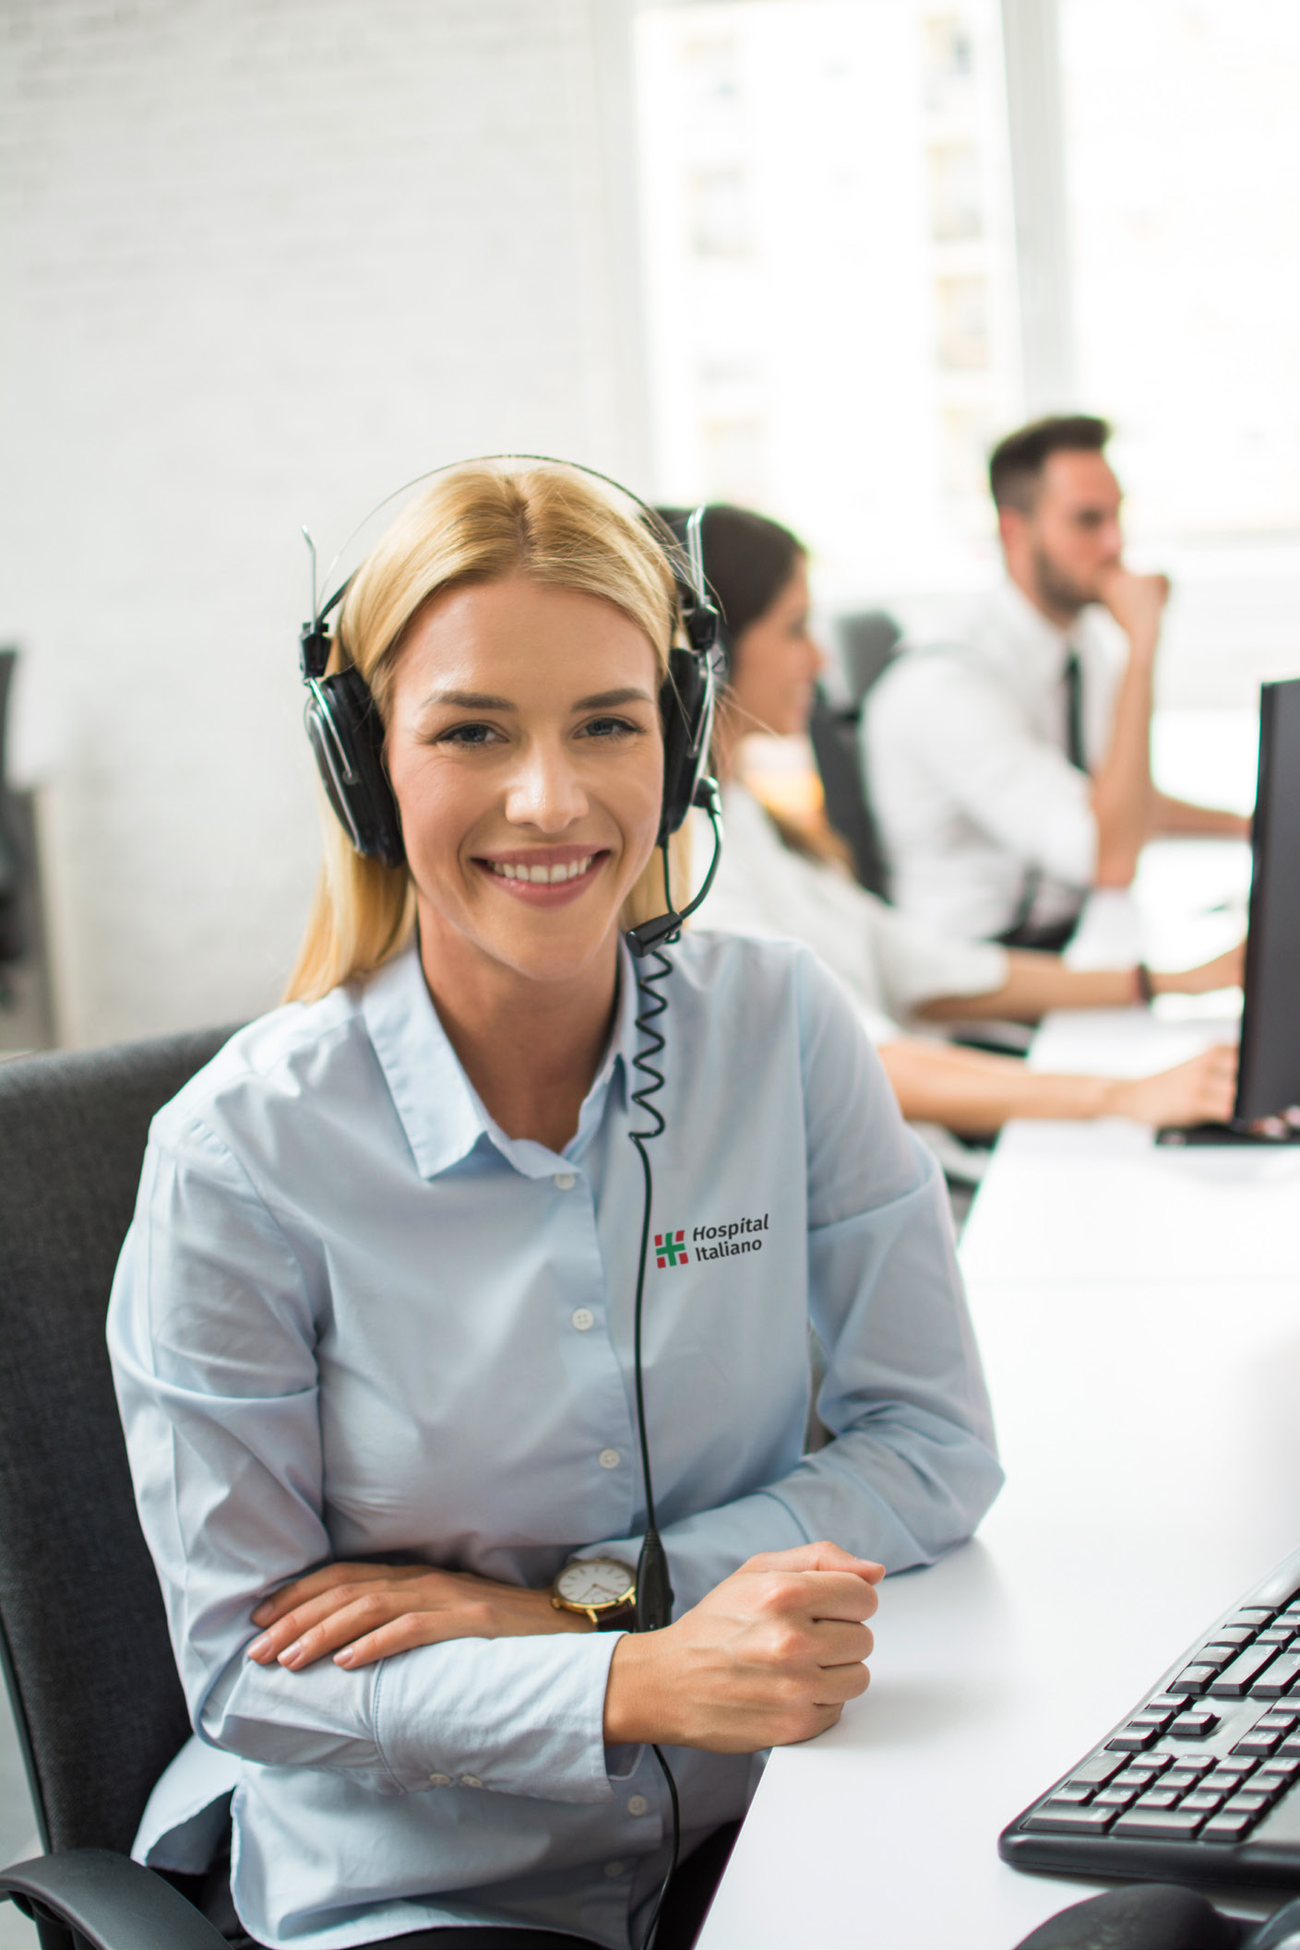
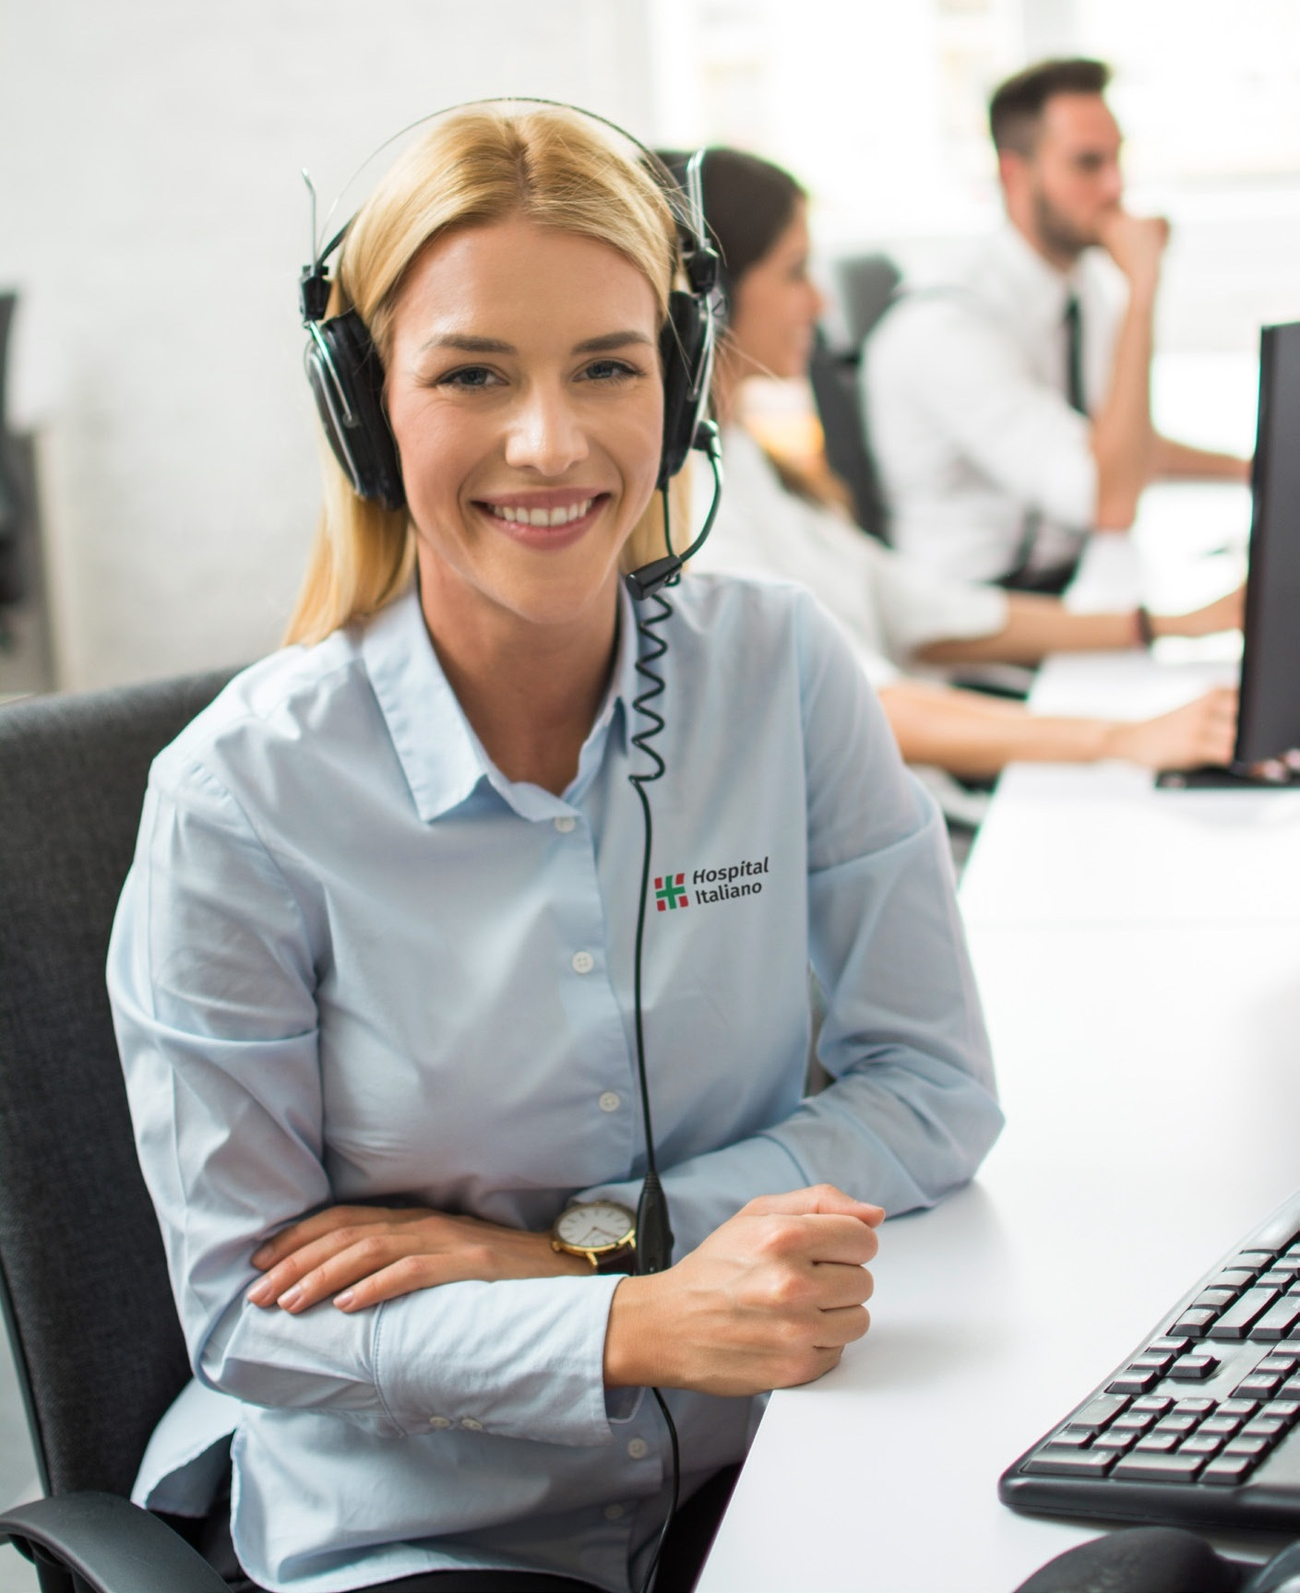
design test added

diff --git a/design-test.html b/design-test.html
@@ -1,0 +1,381 @@
+<!DOCTYPE html>
+<html lang="es">
+<head>
+  <meta charset="UTF-8" />
+  <meta name="viewport" content="width=device-width, initial-scale=1.0" />
+  <link rel="preconnect" href="https://fonts.googleapis.com">
+  <link rel="preconnect" href="https://fonts.gstatic.com" crossorigin>
+  <link href="https://fonts.googleapis.com/css2?family=Fira+Sans:ital,wght@0,100;0,200;0,300;0,400;0,500;0,600;0,700;0,800;0,900;1,100;1,200;1,300;1,400;1,500;1,600;1,700;1,800;1,900&display=swap" rel="stylesheet">
+  <title>Plan de Salud - Hospital Italiano</title>
+
+  <!-- Estilos globales y media queries -->
+  <style>
+    /* Estilos globales */
+    * {
+      margin: 0;
+      padding: 0;
+      box-sizing: border-box;
+      font-family: "Fira Sans", sans-serif;
+      font-size: 12px;
+      color: #000000dc;
+    }
+  </style>
+</head>
+
+<body style="background-color:#ffffff; max-width: 600px; display: flex; flex-direction: column; justify-content: center;line-height:1.25; margin:0 auto; padding:0;">
+
+  <!-- INICIO HEADER -->
+  <header role="banner" style="width:100%; display:block;">
+
+    <!-- Main banner -->
+    <div class="main-banner" style="width:100%; display:flex; justify-content:space-between; align-items:center; padding:25px 7.5%; box-sizing:border-box;">
+      <div class="banner-title" style="width:55%;">
+        <h3 style="color:#00913D; font-size:20px; font-weight:400;">Información Importante</h3>
+      </div>
+      <div class="banner-icon" style="width:45%; display:flex; justify-content:flex-end;">
+        <img src="./img/logo-plan-salud.png" alt="Hospital Italiano" style="width:180px; height:auto; display:block;">
+      </div>
+    </div>
+
+    <!-- Banner con título -->
+    <div class="title-banner" style="background-image:url('./img/bg-hospital-italiano-wide.png'); background-size:cover; background-position:center; width:100%; min-height:215px; border-bottom-right-radius:40px; padding:7.5%; position:relative; box-sizing:border-box;">
+      <div class="overlay" style="background-color:rgba(0,0,0,0.2); position:absolute; top:0; left:0; right:0; bottom:0; border-bottom-right-radius:40px;"></div>
+      <div class="title-group" style="position:relative; z-index:2;">
+        <h1 style="color:#ffffff; font-size:3rem; max-width:60%; line-height:3rem; font-weight:500; position:absolute; left:0; top:20%; text-shadow:2px 2px 8px rgba(0,0,0,0.6);">Bienvenidos al Hospital Italiano</h1>
+      </div>
+    </div>
+
+  </header>
+  <!-- FIN HEADER -->
+
+    <!-- INICIO MAIN -->
+  <main role="main" style="display:block; width:100%; box-sizing:border-box; padding:25px 0 0 0;">
+
+    <!-- Fecha actual -->
+    <div style="width:100%; display:flex; justify-content:flex-end; padding:0 7.5%; box-sizing:border-box;">
+      <p id="dateLine" style="font-weight:400; font-size:12px; color:#000000dc; margin:0;">
+        Buenos Aires, <span id="dateDay">#dd#</span> de <span id="dateMonth">#mmm#</span> de <span id="dateYear">#yyyy#</span>
+      </p>
+    </div>
+
+    <!-- main-info-section -->
+    <section class="main-info-section" style="padding:1rem 7.5%; box-sizing:border-box;">
+      <div style="margin-bottom:20px;">
+        <p style="margin-bottom:2px; font-weight:400;">
+          <strong style="font-weight:600;">Hola <span id="clientName">#nombre#</span></strong> | AFILIADO/A Nº <span id="clientNumber">#número afiliado#</span>
+        </p>
+        <p style="margin-bottom:2px; font-weight:400;">
+          <strong style="font-weight:600;">Plan:</strong> <span id="planNumber">XXX</span>
+        </p>
+        <p style="margin-bottom:2px; font-weight:400;">
+          <strong style="font-weight:600;">Forma de Pago:</strong> <span id="paymentMethod">Tarjeta - XXXX</span>
+        </p>
+      </div>
+
+      <div style="margin-top:6px;">
+        <p style="margin-bottom:8px; font-weight:400;">
+          Queremos darte la bienvenida a nuestra institución como afiliado/a del
+          <strong style="font-weight:600; color:#00913D;">Plan de Salud del Hospital Italiano.</strong>
+        </p>
+        <p style="margin-bottom:8px; font-weight:400;">
+          Tu cobertura tiene vigencia a partir del día
+          <strong style="font-weight:600;"><span id="startDate">#fecha_inicio_cobertura#</span></strong>
+        </p>
+        <p style="margin-bottom:8px; font-weight:600;">
+          A continuación, te acercamos información que consideramos puede ser de gran utilidad:
+        </p>
+        <p style="margin-bottom:8px; font-weight:400;">
+          Para tu facilidad, te enviamos adjunta tu credencial en este e-mail. De todas maneras, podés acceder desde tu celular descargando la App del Portal de Pacientes y accediendo en la parte inferior a
+          <strong style="font-weight:600;">“Credencial”</strong>.
+        </p>
+      </div>
+    </section>
+
+  </main>
+  <!-- FIN MAIN -->
+
+    <!-- INICIO SECCIÓN NÚMEROS ÚTILES -->
+  <section aria-labelledby="numeros-utiles" style="display:block; width:100%; box-sizing:border-box;">
+
+    <!-- Título -->
+    <div style="background-color:#00913D; padding:0.5rem 7.5%; box-sizing:border-box;">
+      <h3 id="numeros-utiles" style="margin:0; color:#ffffff; font-size:18px;">Números útiles</h3>
+    </div>
+
+    <!-- Contenido -->
+    <div style="display:flex; justify-content:space-between; align-items:center;">
+
+      <!-- Columna izquierda -->
+      <div style="width:65%; padding:25px 5% 25px 7.5%; box-sizing:border-box;">
+        <p style="margin:0 0 18px 0; font-size:1.6rem; color:#EE4746; font-weight:400;">
+          Servicio de Emergencias: 4959-5000
+        </p>
+
+        <!-- Listado de números -->
+        <div style="display:flex; gap:2rem;">
+
+          <!-- Columna 1 -->
+          <div style="display:flex; flex-direction: column; min-width:45%;">
+            <!-- Central de turnos -->
+            <div style="display:flex; align-items:flex-start; margin-bottom:12px;">
+              <img src="./img/icon-arrows.png" alt="" style="width:10px; height:auto; margin-right:2.5px; margin-top:2px;">
+              <div>
+                <p style="margin:0;">
+                  <strong style="font-weight:600;">Central de turnos:</strong><br>
+                  <span style="display:block; color:#00913D; font-size:1.5rem;">4959-0550</span>
+                  <span style="display:block; font-style:italic;">Lunes a viernes de 7:30 a 21 hs. Sábados de 8 a 14 hs.</span>
+                </p>
+              </div>
+            </div>
+
+            <!-- Farmacias -->
+            <div style="display:flex; align-items:flex-start; margin-bottom:12px;">
+              <img src="./img/icon-arrows.png" alt="" style="width:10px; height:auto; margin-right:2.5px; margin-top:2px;">
+              <div>
+                <p style="margin:0;">
+                  <strong style="font-weight:600;">Farmacias Plan de Salud,</strong>
+                  <span style="font-weight:400;"> envíos a domicilio:</span><br>
+                  <span style="display:block; color:#00913D; font-size:1.5rem;">4959-0474</span>
+                </p>
+              </div>
+            </div>
+          </div>
+
+          <!-- Columna 2 -->
+          <div style="display:flex; flex-direction: column; justify-content: space-between; min-width:45%;">
+            <!-- Atención al afiliado -->
+            <div style="display:flex; align-items:flex-start; margin-bottom:12px;">
+              <img src="./img/icon-arrows.png" alt="" style="width:10px; height:auto; margin-right:2.5px; margin-top:2px;">
+              <div>
+                <p style="margin:0;">
+                  <strong style="font-weight:600;">Centro de atención al afiliado:</strong><br>
+                  <span style="display:block; color:#00913D; font-size:1.5rem;">4959-0555</span>
+                </p>
+              </div>
+            </div>
+
+            <!-- Asistencia al viajero -->
+            <div style="display:flex; align-items:flex-start; margin-bottom:12px;">
+              <img src="./img/icon-arrows.png" alt="" style="width:10px; height:auto; margin-right:2.5px; margin-top:2px;">
+              <div>
+                <p style="margin:0;">
+                  <strong style="font-weight:600;">Asistencia al viajero:</strong><br>
+                  <span style="display:block; color:#00913D; font-size:1.5rem;">0800-999-6400</span>
+                  <span style="display:block; color:#00913D; font-size:1.5rem;">4323-7777</span>
+                </p>
+              </div>
+            </div>
+          </div>
+
+        </div>
+      </div>
+
+      <!-- Columna derecha (imagen) -->
+      <div style="width:35%; box-sizing:border-box; display:flex; justify-content:center; align-items:center;">
+        <img src="./img/worker-woman-portrait.jpg" alt="Médica sonriendo" style="max-width:100%; height:auto; display:block;">
+      </div>
+
+    </div>
+  </section>
+  <!-- FIN SECCIÓN NÚMEROS ÚTILES -->
+
+    <!-- INICIO PORTAL DE PACIENTES -->
+  <section aria-labelledby="portal-pacientes" style="display:block; width:100%; box-sizing:border-box">
+
+    <!-- Título -->
+    <div style="background-color:#00913D; padding:0.5rem 7.5%; box-sizing:border-box;">
+      <h3 id="portal-pacientes" style="margin:0; color:#ffffff; font-size:18px;">Portal de Pacientes</h3>
+    </div>
+
+    <!-- Contenedor principal -->
+    <div style="display:flex; justify-content:space-between; padding:25px 7.5%; border-bottom:1px solid #00913D; box-sizing:border-box;">
+
+      <!-- Columna izquierda -->
+      <div style="flex:1 1 75%;">
+        <h4 style="margin:0 0 12px 0; font-size:14px; font-weight:600; max-width: 82%;">
+          Te recordamos las múltiples funcionalidades de tu <span style="color:#00913D; font-weight:600; font-size: 14px;">Portal de Pacientes.</span>
+        </h4>
+
+        <ul style="list-style:none; padding:0; margin-top:12px;">
+          <li style="display:flex; align-items:center; margin-bottom:2px;">
+            <img src="./img/icon-arrows.png" alt="" style="width:10px; height:auto; margin-right:2.5px;">
+            <span>Reservar turnos</span>
+          </li>
+          <li style="display:flex; align-items:center; margin-bottom:2px;">
+            <img src="./img/icon-arrows.png" alt="" style="width:10px; height:auto; margin-right:2.5px;">
+            <span>Visualizar tus estudios</span>
+          </li>
+          <li style="display:flex; align-items:center; margin-bottom:2px;">
+            <img src="./img/icon-arrows.png" alt="" style="width:10px; height:auto; margin-right:2.5px;">
+            <span>Comprar medicamentos</span>
+          </li>
+          <li style="display:flex; align-items:center; margin-bottom:2px;">
+            <img src="./img/icon-arrows.png" alt="" style="width:10px; height:auto; margin-right:2.5px;">
+            <span>Visualizar y abonar tus facturas</span>
+          </li>
+          <li style="display:flex; align-items:center; margin-bottom:2px;">
+            <img src="./img/icon-arrows.png" alt="" style="width:10px; height:auto; margin-right:2.5px;">
+            <span>Acceder a Teleconsultas</span>
+          </li>
+          <li style="display:flex; align-items:center; margin-bottom:2px;">
+            <img src="./img/icon-arrows.png" alt="" style="width:10px; height:auto; margin-right:2.5px;">
+            <span>Consultar dudas por Chat</span>
+          </li>
+        </ul>
+      </div>
+
+      <!-- Columna derecha -->
+      <div style="flex:1 1 140px; display:flex; flex-direction:column; align-items:flex-start; justify-content:flex-end;">
+        <a href="#" style="text-decoration:none;">
+          <button style="display:inline-block; font-size: 13px; background-color: white;padding:4px 16px; border:1px solid #00913D; border-radius:5px; color:#00913D; font-weight:500; box-shadow:2px 2px 5px rgba(199,197,197,0.8);">
+            Acceder
+          </button>
+        </a>
+        <p style="margin-top:12px; color:#00913D; font-size:10px; max-width:120px; font-weight:400; text-shadow:2px 2px 8px rgba(0,0,0,0.08);">
+          Disponible para descarga en <strong style="color:#00913D; font-size:10px;">Play Store</strong> y <strong style="color:#00913D; font-size:10px;">App Store</strong>.<br>
+          Accedé fácilmente desde tu dispositivo móvil.
+        </p>
+      </div>
+
+    </div>
+  </section>
+  <!-- FIN PORTAL DE PACIENTES -->
+
+    <!-- INICIO BLOQUES PORTAL DE PACIENTES -->
+
+  <!-- INICIO: Realizar Gestiones Administrativas -->
+  <section style="display:flex; min-height: 85px; justify-content:space-between; align-items:center; padding:10px 7.5%; border-bottom:1px solid #00913D; box-sizing:border-box;">
+    <div style="display:flex; align-items:center; flex:1 1 75%;">
+      <img src="./img/icon-worker.png" alt="Icono empleada administrativa" style="width:30px; height:auto; margin-right:10px;">
+      <h4 style="font-size:12px; font-weight:600; margin:0;">Realizar Gestiones Administrativas</h4>
+    </div>
+    <div style="flex:1 1 25%;">
+      <a href="#" style="text-decoration:none;">
+        <button style="display:inline-block; background-color: white;width:140px; text-align:center; padding:4px 10px; border:1px solid #00913D; border-radius:5px; color:#00913D; font-weight:500; box-shadow:2px 2px 5px rgba(199,197,197,0.8);">
+          ¿Dudas? Accedé aquí
+        </button>
+      </a>
+    </div>
+  </section>
+  <!-- FIN: Realizar Gestiones Administrativas -->
+
+  <!-- INICIO: Acceder a la Credencial Electrónica -->
+  <section style="display:flex; min-height: 85px; justify-content:space-between; align-items:center; padding:10px 7.5%; border-bottom:1px solid #00913D; box-sizing:border-box;">
+    <div style="display:flex; align-items:center; flex:1 1 75%;">
+      <img src="./img/icon-mobile.png" alt="Icono teléfono" style="width:30px; height:auto; margin-right:10px;">
+      <div style="max-width:70%;">
+        <h4 style="font-size:12px; font-weight:600; margin:0 0 2px 0;">Acceder a la Credencial Electrónica:</h4>
+        <p style="font-size:12px; margin:0;">Obtenela en el documento adjunto o en la APP del Portal.</p>
+      </div>
+    </div>
+    <div style="flex:1 1 25%;">
+      <a href="#" style="text-decoration:none;">
+        <button style="display:inline-block; background-color: white;width:140px; text-align:center; padding:4px 10px; border:1px solid #00913D; border-radius:5px; color:#00913D; font-weight:500; box-shadow:2px 2px 5px rgba(199,197,197,0.8);">
+          ¿Dudas? Accedé aquí
+        </button>
+      </a>
+    </div>
+  </section>
+  <!-- FIN: Acceder a la Credencial Electrónica -->
+
+  <!-- INICIO: Información Sobre Nuestros Centros Médicos -->
+  <section style="display:flex; min-height: 85px; justify-content:space-between; align-items:center; padding:10px 7.5%; border-bottom:1px solid #00913D; box-sizing:border-box;">
+    <div style="display:flex; align-items:center; flex:1 1 75%;">
+      <img src="./img/icon-hospital.png" alt="Icono Hospital" style="width:30px; height:auto; margin-right:10px;">
+      <h4 style="font-size:12px; font-weight:600; margin:0;">Información Sobre Nuestros Centros Médicos</h4>
+    </div>
+    <div style="flex:1 1 25%;">
+      <a href="#" style="text-decoration:none;">
+        <button style="display:inline-block; background-color: white;width:140px; text-align:center; padding:4px 10px; border:1px solid #00913D; border-radius:5px; color:#00913D; font-weight:500; box-shadow:2px 2px 5px rgba(199,197,197,0.8);">
+          + Información aquí
+        </button>
+      </a>
+    </div>
+  </section>
+  <!-- FIN: Información Sobre Nuestros Centros Médicos -->
+
+  <!-- INICIO: Contactar a tu Médico de Cabecera -->
+  <section style="display:flex; min-height: 85px; justify-content:space-between; align-items:center; padding:10px 7.5%; border-bottom:1px solid #00913D; box-sizing:border-box;">
+    <div style="display:flex; align-items:center; flex:1 1 75%;">
+      <img src="./img/icon-medic.png" alt="Icono médico" style="width:30px; height:auto; margin-right:10px;">
+      <div>
+        <h4 style="font-size:12px; font-weight:600; margin:0 0 2px 0;">Contactar a tu Médico de Cabecera</h4>
+        <p style="font-size:12px; margin:0; max-width: 85%;">
+          Una vez que asistas a tu primera consulta, contactá a tu Médico/a de Cabecera quien se convertirá en el principal referente del cuidado de tu salud.
+        </p>
+      </div>
+    </div>
+    <div style="flex:1 1 25%;">
+      <a href="#" style="text-decoration:none;">
+        <button style="display:inline-block; background-color: white;width:140px; text-align:center; padding:4px 10px; border:1px solid #00913D; border-radius:5px; color:#00913D; font-weight:500; box-shadow:2px 2px 5px rgba(199,197,197,0.8);">
+          Contactar aquí
+        </button>
+      </a>
+    </div>
+  </section>
+  <!-- FIN: Contactar a tu Médico de Cabecera -->
+
+  <!-- INICIO: Atención no Programada -->
+  <section style="display:flex; min-height: 85px; justify-content:space-between; align-items:center; padding:10px 7.5%; border-bottom:1px solid #00913D; box-sizing:border-box;">
+    <div style="display:flex; align-items:center; flex:1 1 75%;">
+      <img src="./img/icon-cruz.png" alt="Icono medicina" style="width:30px; height:auto; margin-right:10px;">
+      <div>
+        <h4 style="font-size:12px; font-weight:600; margin:0 0 2px 0;">Atención no Programada (sin turno)</h4>
+        <p style="font-size:12px; margin:0; max-width: 85%;">
+          Conocé horarios, modalidad de atención y centros donde podés consultar de manera espontánea.
+        </p>
+      </div>
+    </div>
+    <div style="flex:1 1 25%;">
+      <a href="#" style="text-decoration:none;">
+        <button style="display:inline-block; background-color: white;width:140px; text-align:center; padding:4px 10px; border:1px solid #00913D; border-radius:5px; color:#00913D; font-weight:500; box-shadow:2px 2px 5px rgba(199,197,197,0.8);">
+          + Información aquí
+        </button>
+      </a>
+    </div>
+  </section>
+  <!-- FIN: Atención no Programada -->
+
+  <!-- INICIO: Medios de Pago -->
+  <div style="background-color:#00913D; padding:0.5rem 7.5%; box-sizing:border-box;">
+    <h3 style="color:#ffffff; margin:0; font-size:18px; font-weight: 600;">Medios de Pago</h3>
+  </div>
+  <section style="display:flex; justify-content:space-between; align-items:center; padding:25px 7.5%; border-bottom:1px solid #00913D; box-sizing:border-box;">
+    <div style="flex:1 1 75%;">
+      <h4 style="font-size:14px; font-weight:600; margin:0;">Para conocer las distintas alternativas de pago</h4>
+    </div>
+    <div style="flex:1 1 25%;">
+      <a href="#" style="text-decoration:none;">
+        <button style="display:inline-block; background-color: white;width:140px; text-align:center; padding:4px 10px; border:1px solid #00913D; border-radius:5px; color:#00913D; font-weight:500; box-shadow:2px 2px 5px rgba(199,197,197,0.8);">
+          + Información aquí
+        </button>
+      </a>
+    </div>
+  </section>
+  <!-- FIN: Medios de Pago -->
+
+  <!-- FIN BLOQUES PORTAL DE PACIENTES -->
+
+    <!-- INICIO FOOTER -->
+  <footer role="contentinfo" style="display:block; width:100%; box-sizing:border-box; padding:40px 7.5% 20px 7.5%; background-color:#ffffff;">
+
+    <div style="text-align:center; padding-bottom:12px;">
+      <span style="display:block; font-weight:700; font-size:14px; margin:0 0 10px 0;">
+        ¡Es muy importante que mantengas tus datos de contacto actualizados!
+      </span>
+      <p style="max-width:780px; margin:0 auto; font-weight:400;">
+        Podés realizarlo ingresando a la sección “Perfil” en el Portal de Pacientes, opción que encontrarás en el extremo derecho al cliquear sobre tu dirección de e-mail.
+      </p>
+    </div>
+
+    <div style="text-align:left; padding-top:18px; position: relative;">
+      <div style="display:inline-block; position:absolute; bottom:-50px; left:-9%; padding: 1rem 1rem 1rem 7.5%; background-color:#00913D; color:#ffffff; font-size: 16px;width:60%; border-top-right-radius:10px;">
+        Movemos los límites de lo posible.
+      </div>
+    </div>
+
+  </footer>
+  <!-- FIN FOOTER -->
+
+</body>
+</html>
